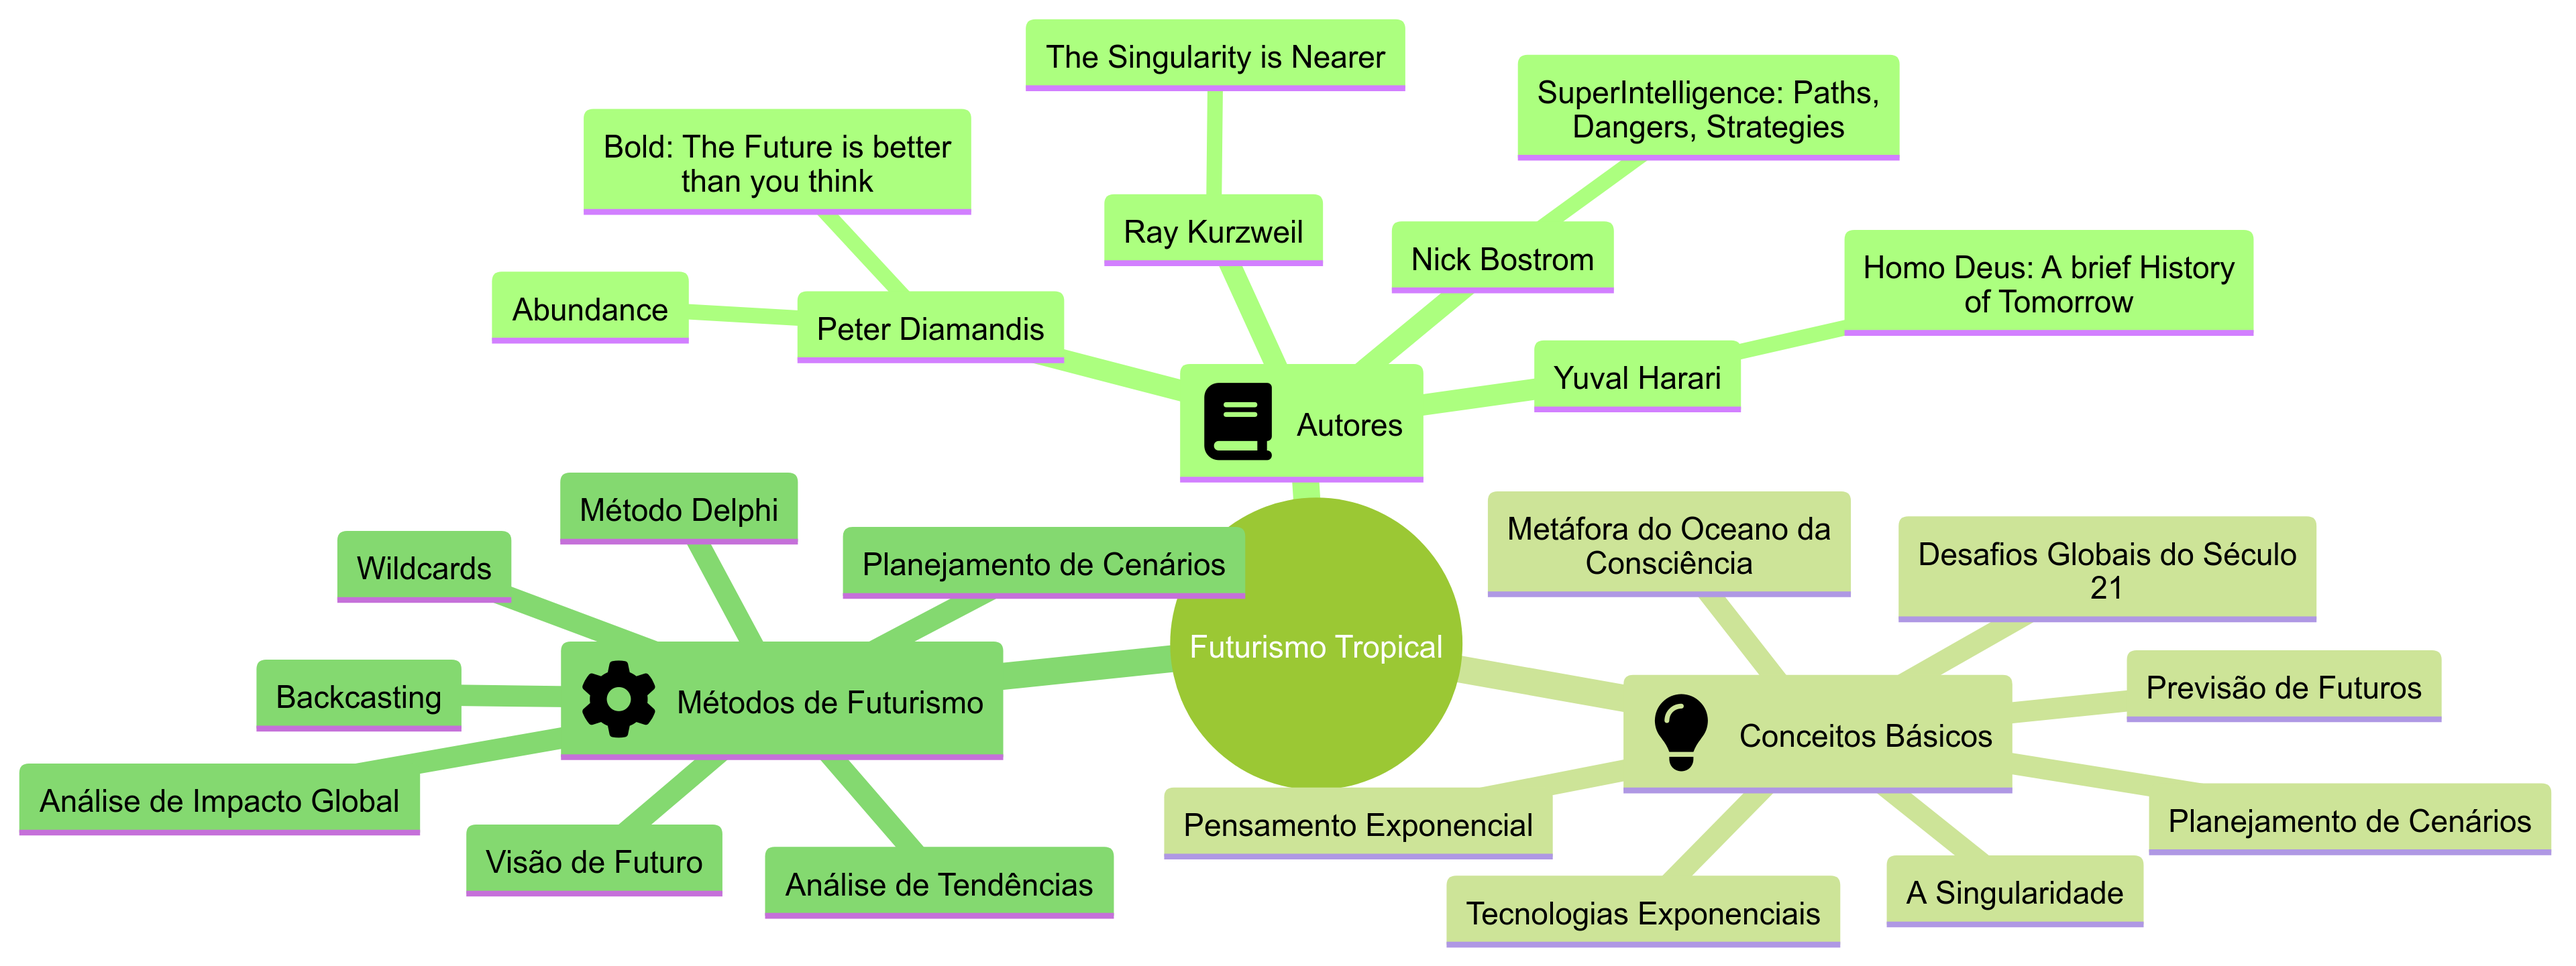
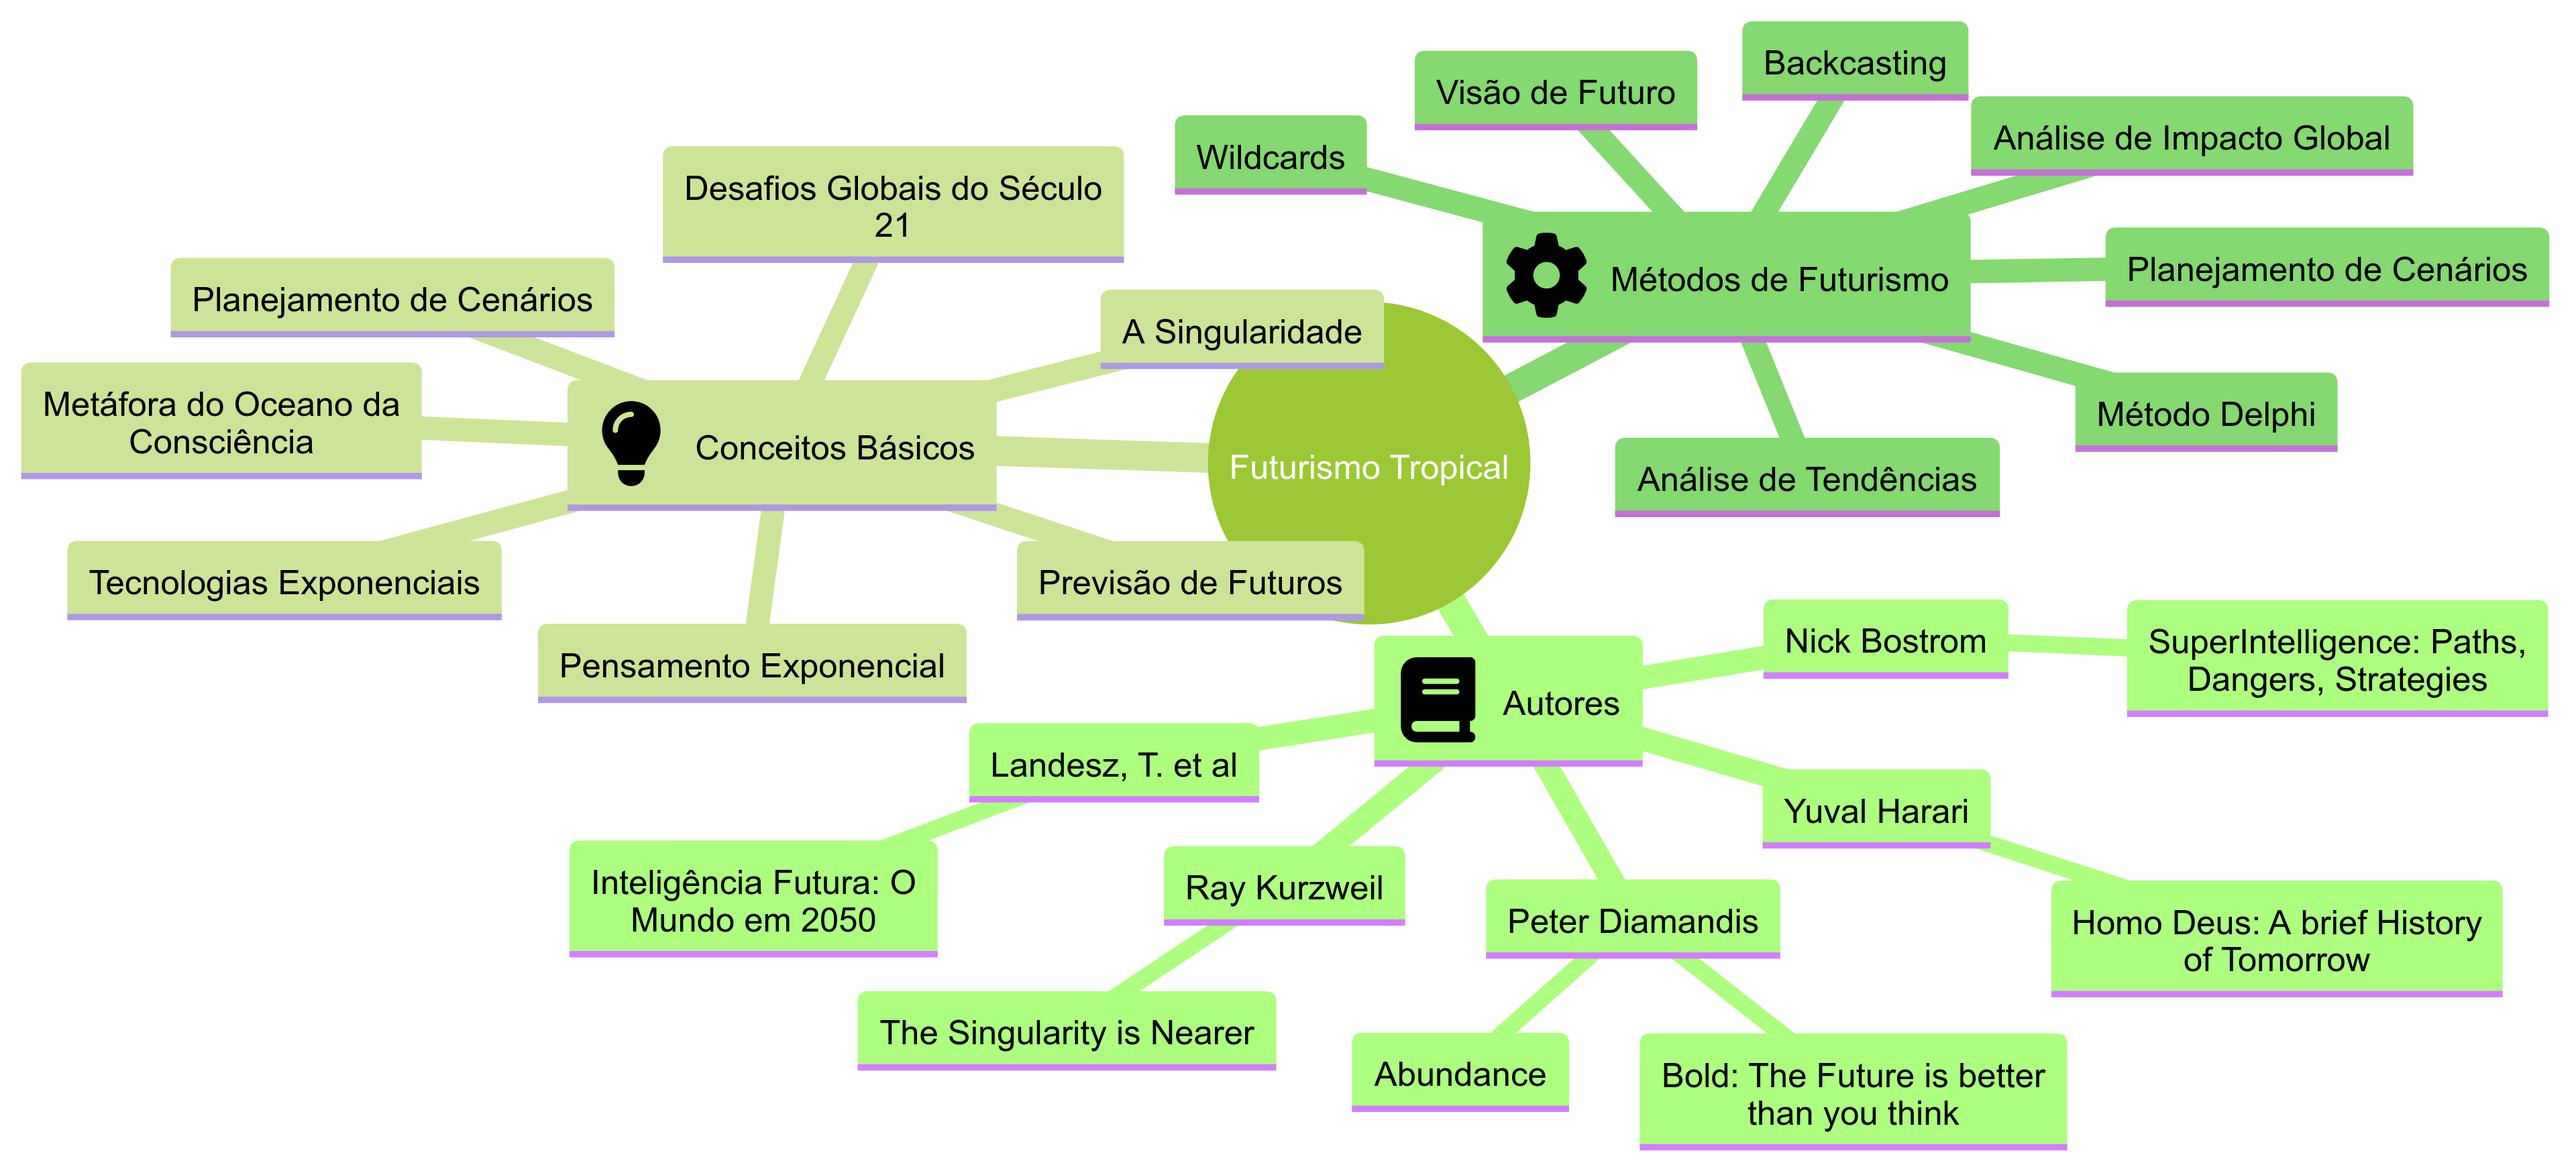
Adiciona novo livro, imagem de mindmap e atualiza Index.

diff --git a/fontes.html b/fontes.html
@@ -291,6 +291,84 @@
     
         <p>No geral, a abordagem de Kurzweil para previsão do futuro é uma ferramenta poderosa para entender o potencial de rápido avanço tecnológico. No entanto, é essencial reconhecer suas limitações e considerar outros fatores que podem influenciar o futuro.</p></div>
       </div>
+ 
+      <div class="card">
+          <h3>LANDESZ, T.; VARGHESE, S.; SARGSYAN, K. (Eds.)</h3> 
+  
+          <h3>Inteligência Futura: O Mundo em 2050 - Capacitando Governos, Inovadores e Empresas a Criar um Futuro Melhor</h3>
+          <p><a>Acesso Aberto - <a href="https://library.oapen.org/handle/20.500.12657/76732">Baixar aqui</a></p>
+          <p>Este livro explora o futuro do mundo em 2050 através das perspectivas de líderes globais e visionários de diversas origens. Ele se baseia em pesquisas abertas e colaborativas e incorpora insights da pandemia de COVID-19, atraindo não apenas empresas e governos, mas também o público em geral.</p>
+          <p>Os capítulos abordam o futuro de setores específicos como liderança; governos, política e democracia; geopolítica; saúde; energia; mudança climática; transporte; comunicação e interação; sexo e gênero; consumo; alimentação; famílias; lares; trabalho e negócios; aprendizagem e educação; religião; e entretenimento. O último capítulo discute o movimento Mundo 50.0 e como participar. Os tópicos de Inteligência Artificial, aprendizado de máquina e singularidade estão integrados ao longo do livro.</p>
+  
+          <h4>Capítulo 1: Introdução ao Movimento Mundo 50.0</h4>
+          <p>Este capítulo introdutório apresenta a premissa do livro, que explora o futuro do mundo em 2050, baseando-se nas perspectivas de líderes globais e visionários de diversas origens. Ele destaca os desafios do nosso tempo, incluindo a pandemia de COVID-19, e a necessidade de um futuro mais inclusivo e sustentável. Os autores enfatizam a importância de antecipar o futuro e o papel da Inteligência Artificial em moldá-lo.</p>
+  
+          <h4>Capítulo 2: Futuro da Liderança</h4>
+          <p>Este capítulo discute a necessidade de um novo tipo de liderança diante da pandemia atual e do futuro acelerado. Ele examina as qualidades e características que serão essenciais para os futuros líderes, incluindo adaptabilidade, colaboração, criatividade, inteligência emocional, empreendedorismo, ética, resiliência, autoconhecimento e consciência social. Os autores também exploram os fatores que contribuem para o desenvolvimento de habilidades de liderança precoce em Jovens Líderes Globais.</p>
+  
+          <h4>Capítulo 3: Futuro dos Governos, Política e Democracia</h4>
+          <p>Este capítulo explora o declínio da democracia e da confiança nas instituições políticas em todo o mundo, bem como o papel da tecnologia e da IA na melhoria da infraestrutura, dos serviços públicos e da formulação de políticas. Ele examina o Índice de Democracia da Economist Intelligence Unit e o Barômetro de Confiança Edelman, que mostram um declínio na confiança nas instituições. O capítulo também discute o projeto da União Europeia para explorar o futuro do governo além de 2030, que identificou quatro cenários: Democracia DIY, Algoritmocracia Privada, Governo Super Colaborativo e Super Regulamentação. O capítulo conclui com previsões para o futuro da democracia na nova era digital.</p>
+  
+          <h4>Capítulo 4: Futuro da Geopolítica</h4>
+          <p>Este capítulo explora a potencial transformação da geopolítica nos próximos 30 anos e os desafios globais que a humanidade pode enfrentar. Ele discute a transição histórica que o mundo está passando, com o reequilíbrio do poder econômico e político e o surgimento de novos polos de poder como Brasil, Colômbia, Egito, Indonésia, Irã, Quênia, México, Nigéria, Filipinas, Turquia e Vietnã. O capítulo também examina o impacto do comércio internacional na pobreza global e o impacto potencial das decisões políticas na globalização e nas mudanças climáticas.</p>
+  
+          <h4>Capítulo 5: Futuro da Saúde</h4>
+          <p>Este capítulo explora o futuro da saúde, que está mudando do tratamento de doenças para a prevenção. Os autores discutem o papel da tecnologia na revolução da medicina, incluindo o uso de sensores vestíveis, medicina personalizada, diagnósticos de IA e realidade virtual. O capítulo também aborda a necessidade de uma nova geração de médicos interessados em inovação e em tomar melhores decisões, em vez de seguir tradições seculares.</p>
+  
+          <h4>Capítulo 6: Futuro da Energia</h4>
+          <p>Este capítulo se concentra no setor de energia, que é responsável por três quartos das emissões de gases de efeito estufa. Os autores discutem os desafios da transição para um futuro de emissões líquidas zero e a necessidade de produção e consumo sustentáveis de energia. O capítulo examina as tendências na demanda global de energia, a crescente dependência de eletricidade e o papel crescente de fontes de energia renováveis, como energia solar e eólica. Também discute a necessidade de sistemas de armazenamento de energia de longa duração, geração de energia variável distribuída e tecnologias de captura e armazenamento de carbono.</p>
+  
+          <h4>Capítulo 7: Futuro das Mudanças Climáticas</h4>
+          <p>Este capítulo examina o impacto das mudanças climáticas no planeta e na existência humana. Os autores discutem as evidências científicas do aquecimento global, as consequências potenciais de exceder 1,5 °C de aquecimento e a necessidade de emissões líquidas zero até 2050. O capítulo também explora os impactos das mudanças climáticas em vários sistemas ecológicos e climáticos, incluindo mudanças na precipitação, níveis do mar, acidificação dos oceanos e agricultura. Também examina o provável impacto das mudanças climáticas na vida e nos meios de subsistência humanos, incluindo padrões de migração e o aumento da insegurança alimentar.</p>
+  
+          <h4>Capítulo 8: Futuro do Transporte</h4>
+          <p>Este capítulo examina como o transporte se transformará nos próximos 30 anos. Ele destaca o papel crescente de veículos elétricos, rodovias inteligentes e trens de alta velocidade. O capítulo também discute o desenvolvimento de voos suborbitais ponto a ponto para viagens intercontinentais e o aumento da micromobilidade e do transporte compartilhado. Os autores também discutem o impacto da automação no transporte e a necessidade de cidades inteligentes.</p>
+  
+          <h4>Capítulo 9: Futuro da Comunicação e Interação</h4>
+          <p>Este capítulo explora o impacto da digitalização na comunicação e na interação humana. Os autores discutem o uso crescente de chatbots e inteligência artificial na comunicação, o surgimento da realidade mista e o potencial para experiências virtuais. Também aborda os desafios da proteção e segurança de dados e a crescente importância da inteligência emocional na comunicação.</p>
+  
+          <h4>Capítulo 10: Futuro do Sexo e Gênero</h4>
+          <p>Este capítulo examina a evolução do sexo e do gênero no futuro, particularmente o impacto da tecnologia nas experiências sexuais. Ele explora o papel crescente da realidade virtual, robôs e brinquedos sexuais na transformação das experiências sexuais. Os autores também discutem as considerações éticas do sexo com robôs e a possibilidade da engenharia genética afetar as características sexuais.</p>
+  
+          <h4>Capítulo 11: Futuro do Consumo</h4>
+          <p>Este capítulo examina a revolução global do consumidor que está em andamento, impulsionada pela ascensão da classe média e pelo impacto crescente da tecnologia no varejo. Os autores discutem o conceito em mudança de um produto, a mudança do foco no preço para o foco na experiência e a crescente dependência de compras online. Também explora o futuro dos espaços de varejo, incluindo o surgimento de lojas experimentais, o uso de realidade virtual e realidade aumentada e a crescente importância de produtos personalizados.</p>
+  
+          <h4>Capítulo 12: Futuro da Alimentação</h4>
+          <p>Este capítulo examina os desafios de alimentar uma população global em crescimento sem prejudicar o meio ambiente. Ele discute a necessidade de uma revolução na produção de alimentos e o papel da tecnologia na transformação da cadeia de suprimentos de alimentos. Os autores exploram o potencial de novas fontes de proteína, como insetos e carne cultivada em laboratório, e o papel da agricultura horizontal, plantas geneticamente modificadas e cidades inteligentes. Também aborda a necessidade de reduzir o desperdício de alimentos e a importância de abordar os impactos sociais das novas tecnologias.</p>
+  
+          <h4>Capítulo 13: Futuro das Famílias</h4>
+          <p>Este capítulo explora o futuro da família, um tópico de muito debate e especulação. Ele examina o conceito em mudança de família, o aumento das famílias multigeracionais, o potencial para casamentos com robôs e a crescente aceitação de estruturas familiares diversas. O capítulo também considera o impacto dos avanços tecnológicos na vida familiar, como o surgimento de famílias virtuais, o declínio do casamento tradicional e a crescente importância da escolha individual.</p>
+  
+          <h4>Capítulo 14: Futuro dos Lares</h4>
+          <p>Este capítulo explora o futuro da casa, que está se tornando cada vez mais inteligente e conectada. Os autores discutem o uso crescente de tecnologia em casas, como aspiradores de pó robóticos, geladeiras programáveis e televisores multimídia. Também examina o impacto das mudanças climáticas no design da casa e o potencial para casas autolimpantes e autossuficientes. O capítulo conclui com uma análise do futuro do entretenimento doméstico e o papel crescente da realidade virtual.</p>
+  
+          <h4>Capítulo 15: Futuro do Trabalho e dos Negócios</h4>
+          <p>Este capítulo examina o futuro do trabalho e dos negócios, que está sendo transformado pelo impacto da tecnologia, demografia e globalização. Os autores discutem o declínio da população e a escassez de mão de obra em países desenvolvidos, a crescente migração de mão de obra de países em desenvolvimento e o aumento do desemprego juvenil. Também explora a ruptura das hierarquias organizacionais, o retorno do capital social e a ascensão das micro multinacionais.</p>
+  
+          <h4>Capítulo 16: Futuro da Aprendizagem e Educação</h4>
+          <p>Este capítulo discute o futuro da aprendizagem e da educação, que está passando por uma grande reforma. Os autores examinam a crescente importância da aprendizagem personalizada, o papel da tecnologia e da inteligência artificial e a necessidade de aprendizagem ao longo da vida. Também discute as mudanças nos espaços educacionais, com o surgimento de microescolas e Superlabs, e a necessidade de incorporar aprendizados das ciências da aprendizagem ao currículo.</p>
+  
+          <h4>Capítulo 17: Futuro da Religião</h4>
+          <p>Este capítulo examina o futuro da religião, um tópico de muito debate e incerteza. Ele discute o declínio da religião tradicional em muitas partes do mundo, a ascensão do secularismo e do multiculturalismo e a crescente importância da espiritualidade. Os autores também consideram o potencial para uma nova religião universal baseada na moralidade e o impacto da inteligência artificial na religião.</p>
+  
+          <h4>Capítulo 18: Futuro do Entretenimento</h4>
+          <p>Este capítulo explora o futuro do entretenimento, que está se tornando cada vez mais imersivo e experiencial. Os autores discutem o papel da realidade virtual e da realidade aumentada na transformação do entretenimento e a crescente importância das tecnologias digitais, como transmissão de dados em alta velocidade e impressão 3D. O capítulo também examina o futuro da música, televisão e cinema e o potencial para novos formatos de entretenimento, como shows holográficos e jogos de terror de realidade virtual.</p>
+  
+          <h4>Capítulo 19: Reiniciando o Futuro: Mundo 50.0</h4>
+          <p>Este capítulo conclui o livro explorando o movimento Mundo 50.0, que está trabalhando para construir um futuro melhor, mais inclusivo e sustentável. Os autores discutem a importância da colaboração, inovação e educação na criação de um futuro melhor. O capítulo também destaca o papel de iniciativas como o jogo Planeta Unido, Futuristas e Regenopolis em moldar o futuro.</p>
+  
+          <h4>Capítulo 20: Anexo: Qual é a sua Inteligência Futura (QI Futuro)?</h4>
+          <p>Este anexo fornece aos leitores um questionário para avaliar seu Quociente de Inteligência Futura (QI Futuro). Os autores descrevem o conceito de QI Futuro e explicam como interpretar os resultados do questionário.</p>
+        </div>
+  
+
+      </div>
+      
+      
+      </div>
+
+
+      </div>
 
 
       </div>

diff --git a/index.html b/index.html
@@ -55,6 +55,8 @@
 <p> BOSTROM, N. Superintelligence: Paths, Dangers, Strategies. Oxford: Oxford University Press, 2014.</p>
 
 <p> HARARI, Y. N. Homo Deus: A Brief History of Tomorrow. Toronto: Signal, 2016.</p>
+
+<p> LANDESZ, T.; VARGHESE, S.; SARGSYAN, K. (Eds.). Future Intelligence: The World in 2050 - Enabling Governments, Innovators, and Businesses to Create a Better Future. Cham: Springer, 2023. (Future of Business and Finance).</p>
             <li>Criamos resumos dos livros e fizemos prompts de conceitos chaves sobre Futurismo usando a LLM do Gemini modelo 1.5 Pro.</li>
             <li>Adicionamos o resultado de todas as prompts em ordem no Claude, onde foram traduzidas para Português e foi criado o artefato do website que você acessa agora.</li>
             <li>O projeto pode ser acessado e está disponível para colaboração nesse <a href="https://futurismo-tropical.vercel.app/">site</a>.</li>
